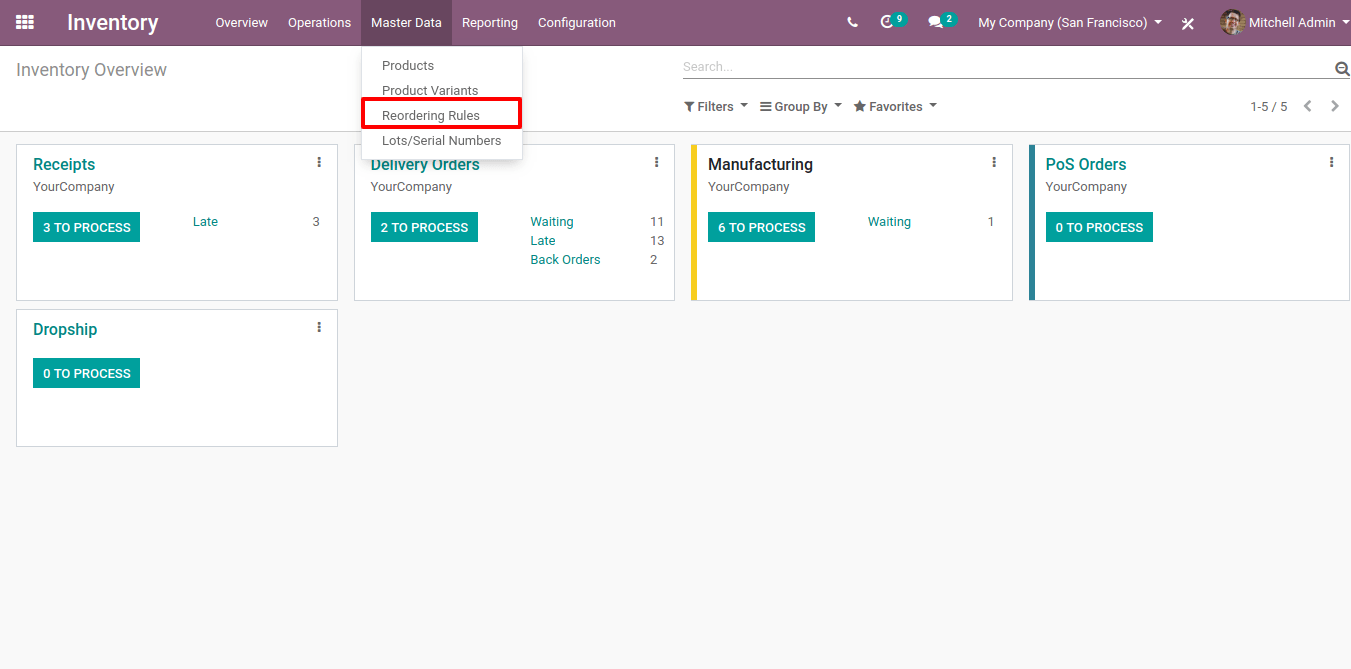
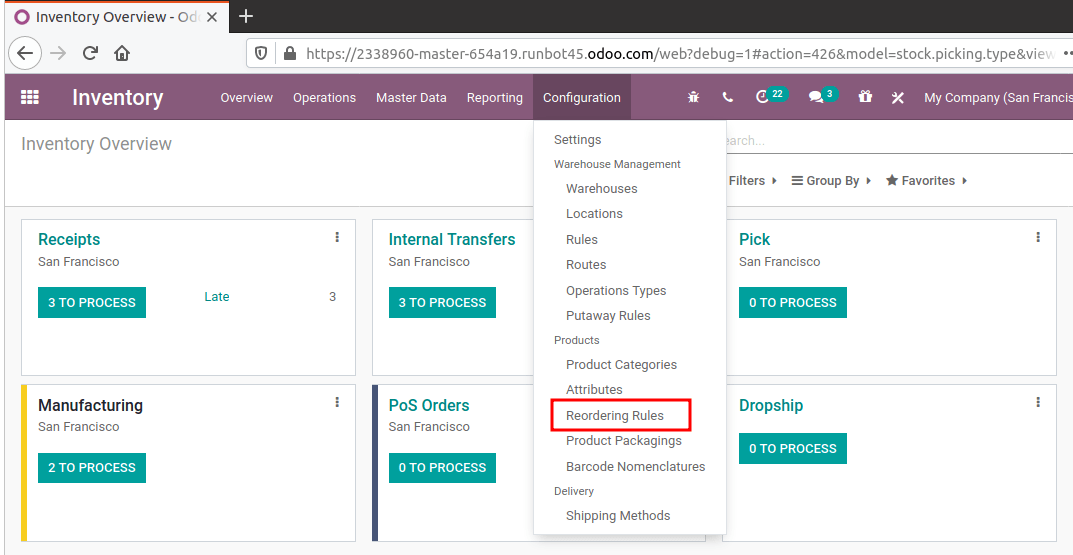
[IMP] inventory/management/replen._stratergies - update menu path and screenshot

diff --git a/inventory/management/replenishment_strategies/min_stock_rule_vs_mto.rst b/inventory/management/replenishment_strategies/min_stock_rule_vs_mto.rst
@@ -24,7 +24,7 @@ Reordering Rules
 ----------------
 
 The *Reordering Rules* configuration is available through the menu
-:menuselection:`Inventory --> Master Data --> Reordering Rules`. There, click on
+:menuselection:`Inventory --> Configuration --> Products --> Reordering Rules`. There, click on
 *Create* to set minimum and maximum stock values for a given product.
 
 .. image:: media/min_stock_rule_vs_mto_01.png
